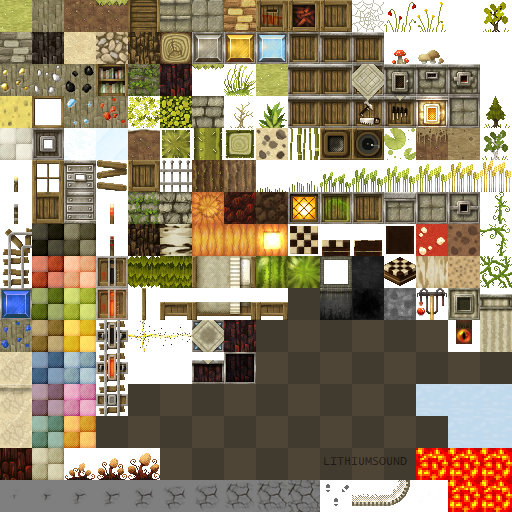
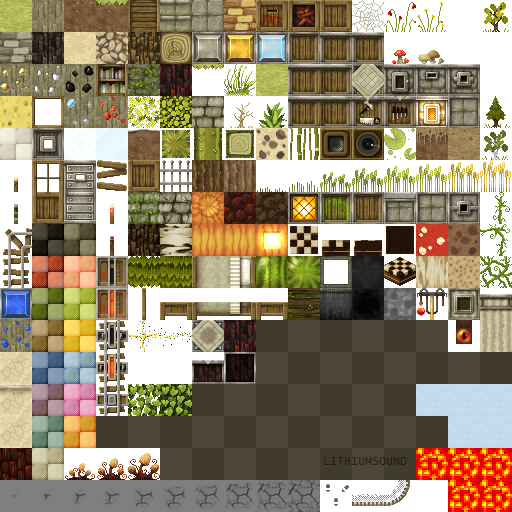
v21.a

Changed region(s): [[0.25, 0.75, 0.375, 0.8125], [0.5625, 0.5625, 0.625, 0.625]]

diff --git a/README.md b/README.md
@@ -34,6 +34,9 @@ If you play with some mod, you should download mod support for summerfields :
 		----------------
 
 
+20/01/12 :
+New jungle leaves, new jungle wood log
+
 14/01/12 :
 Fixed lightmap, New GUI, fixed GUI(language button)
 Torch now blink a little less, cave are a little less dark
